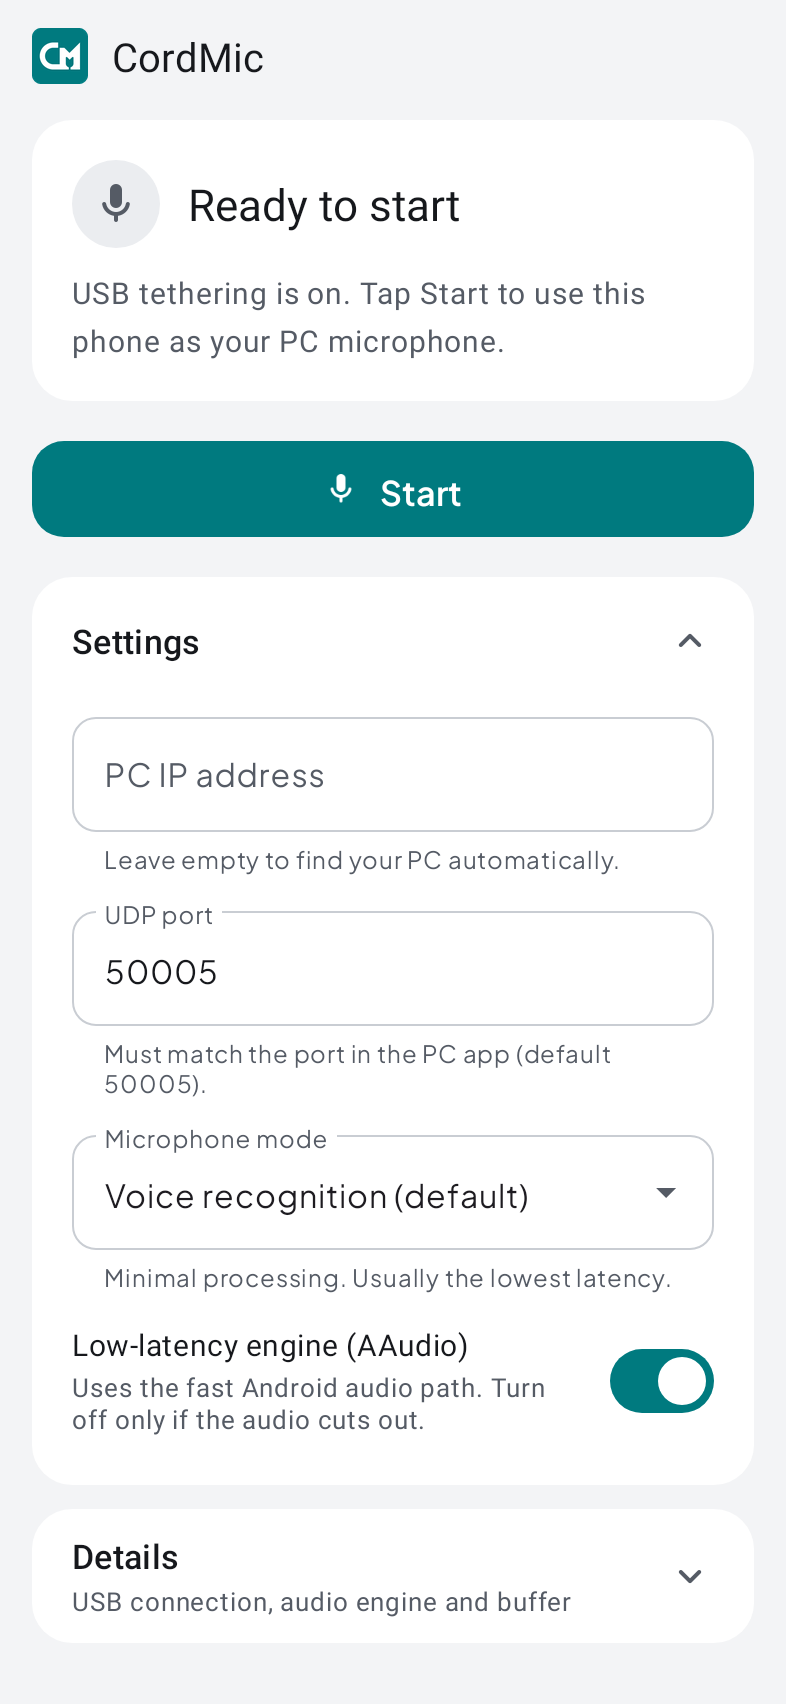
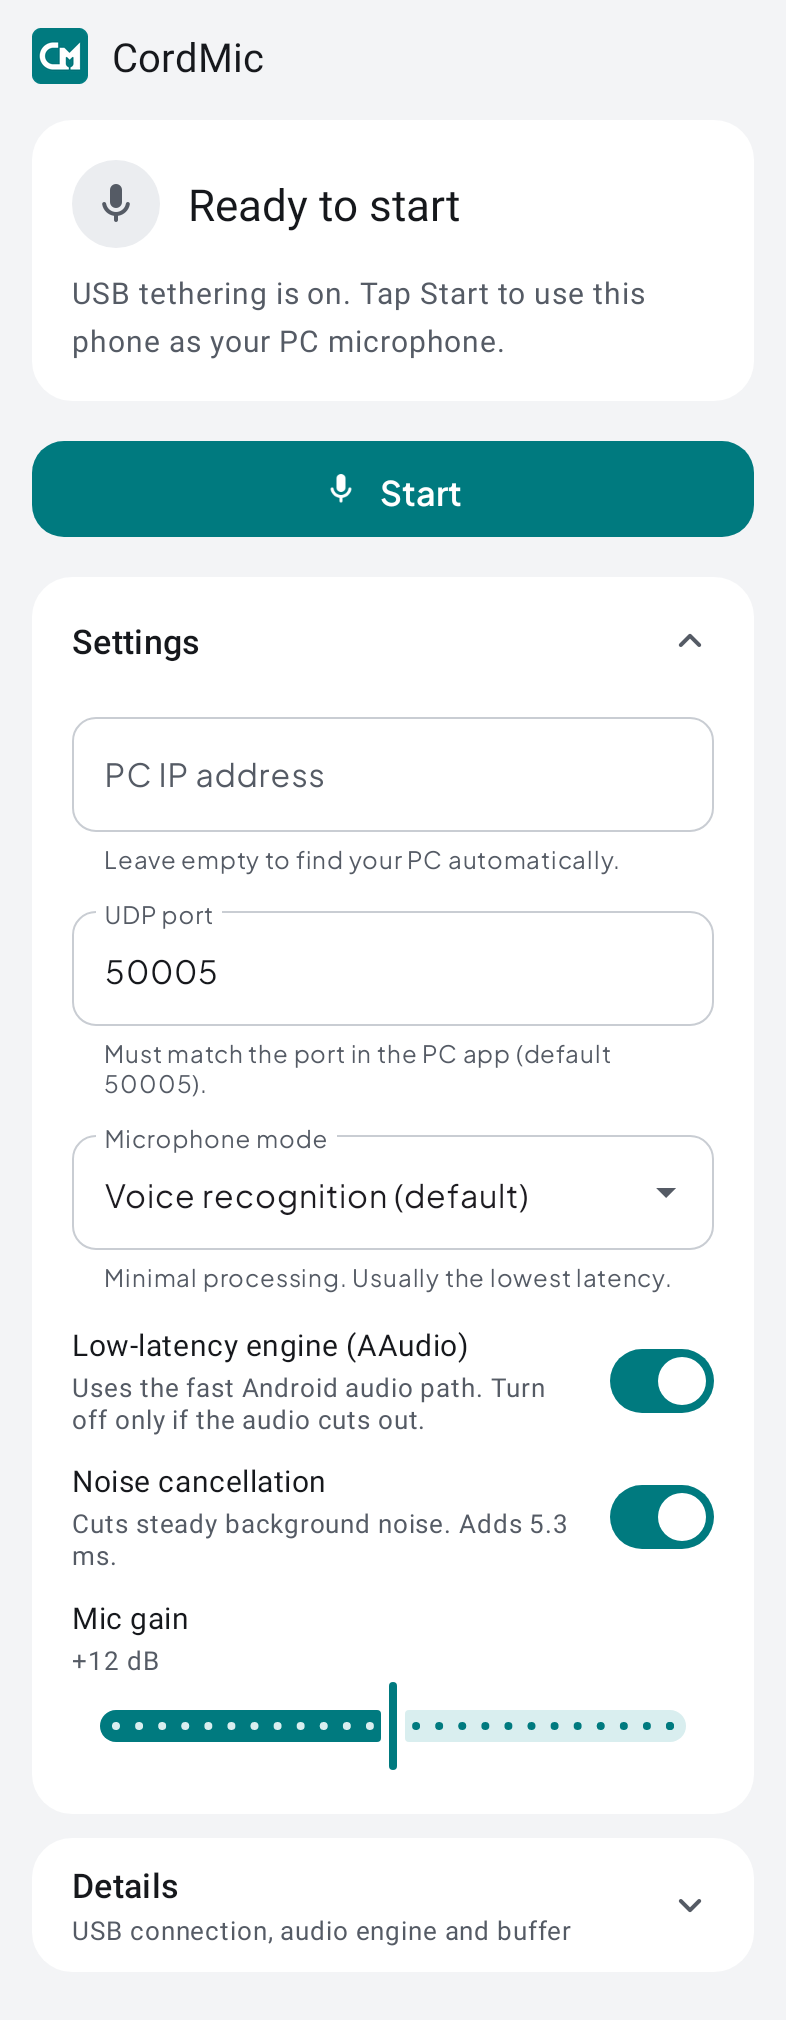
Refresh 0.5.0 Android screenshots and test counts
Record the settings screen with noise cancellation and mic gain, and update
the documented .NET (70) and Kotlin (22) unit-test totals.

diff --git a/README.md b/README.md
@@ -342,8 +342,8 @@ Release signing is read from a properties file outside the repository
 | Suite | Command | Covers |
 |---|---|---|
 | Python (24 tests) | `cd windows-receiver && python -m unittest discover -s tests` | protocol, jitter buffer, output callback, UDP loopback (clean and lossy) |
-| .NET (52 tests) | `cd windows-app && dotnet test` | protocol golden vectors, jitter buffer and catch-up, separate ping socket, adapter/virtual-cable rules, settings and migration, UDP loopback, interop with `sim_sender.py`, localization tables |
-| Kotlin (17 tests) | `cd android && ./gradlew testDebugUnitTest` | header byte-compatibility with Python, English/Indonesian string parity, level meter and IP helpers, Robolectric screenshot renders (`-PrecordScreenshots` rewrites `docs/screenshots/android-*.png`) |
+| .NET (70 tests) | `cd windows-app && dotnet test` | protocol golden vectors, jitter buffer and catch-up, render-period floor and allocation-free hot path, voice chain, ping backoff, separate ping socket, adapter/virtual-cable rules, settings and migration, UDP loopback, interop with `sim_sender.py`, localization tables |
+| Kotlin (22 tests) | `cd android && ./gradlew testDebugUnitTest` | header byte-compatibility with Python, voice-chain delay/gain/limiter, English/Indonesian string parity, level meter and IP helpers, Robolectric screenshot renders (`-PrecordScreenshots` rewrites `docs/screenshots/android-*.png`) |
 
 ## Python receiver (developer tool)
 

diff --git a/README.id.md b/README.id.md
@@ -337,8 +337,8 @@ release lokal ditandatangani dengan debug key.
 | Suite | Perintah | Cakupan |
 |---|---|---|
 | Python (24 test) | `cd windows-receiver && python -m unittest discover -s tests` | protokol, jitter buffer, callback output, loopback UDP (bersih dan lossy) |
-| .NET (52 test) | `cd windows-app && dotnet test` | golden vector protokol, jitter buffer dan catch-up, socket ping terpisah, aturan adapter/kabel virtual, setting dan migrasi, loopback UDP, interop dengan `sim_sender.py`, tabel teks |
-| Kotlin (17 test) | `cd android && ./gradlew testDebugUnitTest` | kompatibilitas byte header dengan Python, kesamaan teks Inggris/Indonesia, helper level meter dan IP, render screenshot Robolectric (`-PrecordScreenshots` menulis ulang `docs/screenshots/android-*.png`) |
+| .NET (70 test) | `cd windows-app && dotnet test` | golden vector protokol, jitter buffer dan catch-up, lantai periode render dan jalur panas tanpa alokasi, rantai suara, backoff ping, socket ping terpisah, aturan adapter/kabel virtual, setting dan migrasi, loopback UDP, interop dengan `sim_sender.py`, tabel teks |
+| Kotlin (22 test) | `cd android && ./gradlew testDebugUnitTest` | kompatibilitas byte header dengan Python, jeda/gain/limiter rantai suara, kesamaan teks Inggris/Indonesia, helper level meter dan IP, render screenshot Robolectric (`-PrecordScreenshots` menulis ulang `docs/screenshots/android-*.png`) |
 
 ## Receiver Python (alat developer)
 
